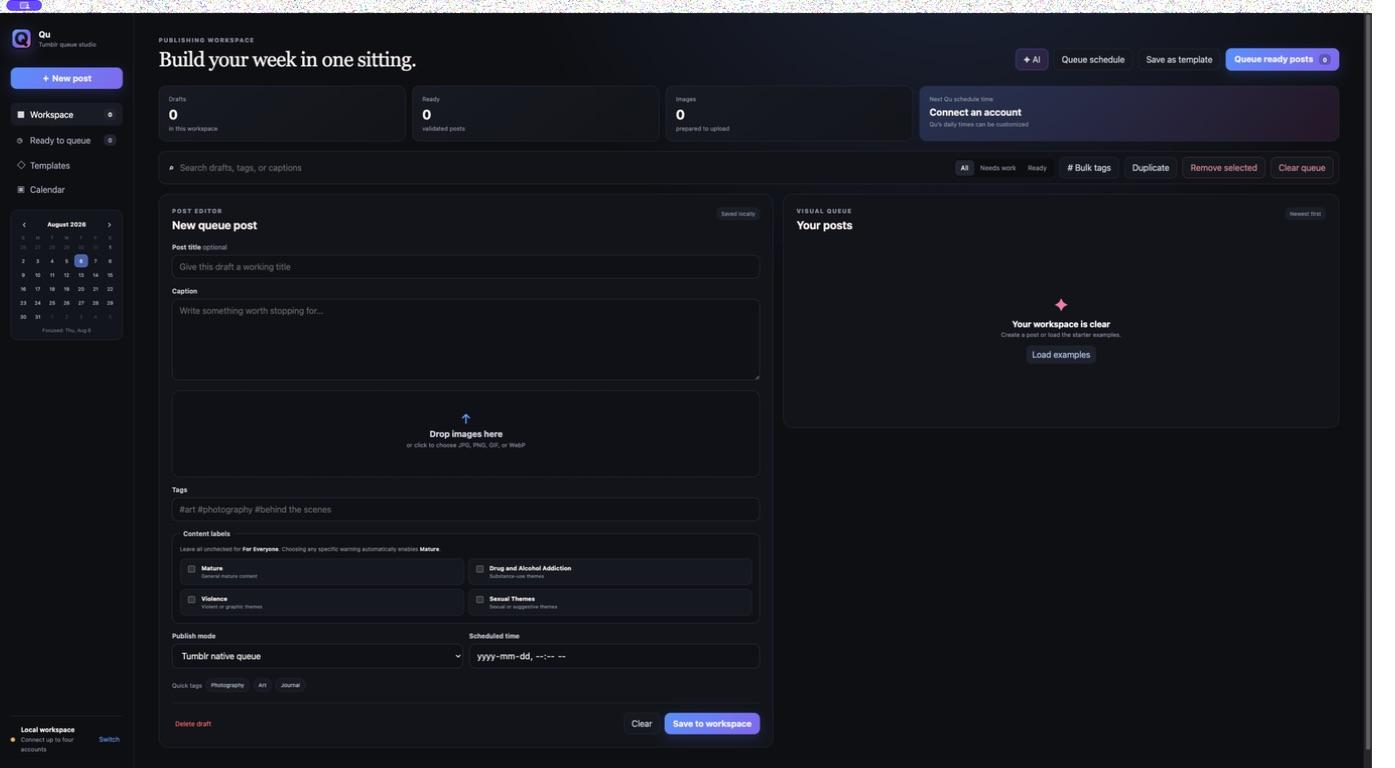
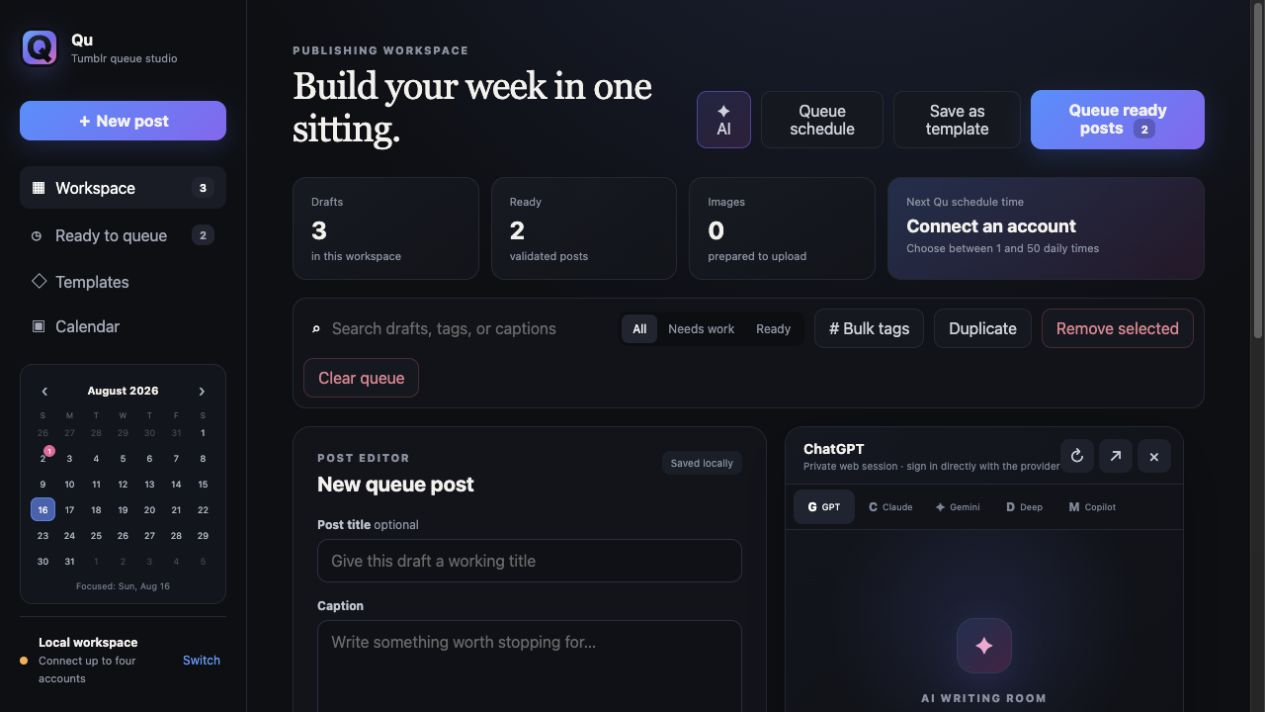
Release Qu 0.8.7 (#11)

diff --git a/app/renderer.js b/app/renderer.js
@@ -3,16 +3,12 @@ const $ = (selector) => document.querySelector(selector);
 const today = new Date();
 const state = { posts: JSON.parse(localStorage.getItem("tqs-posts") || "[]"), activeId: null, media: [], filter: "all", view: "workspace", search: "", profiles: [], activeAccountId: "local", queueTimes: ["08:00","11:00","14:00","17:00","20:00","23:00"], calendarMonth: new Date(today.getFullYear(),today.getMonth(),1), selectedDate: "", remoteCalendarPosts: [], calendarSyncedAt: null };
 const fields = { title: $("#post-title"), caption: $("#caption"), tags: $("#tags"), postState: $("#post-state"), schedule: $("#schedule-time") };
-const contentLabelInputs = [...document.querySelectorAll('input[name="content-label"]')];
 
 function persist(){localStorage.setItem("tqs-posts",JSON.stringify(state.posts));$("#save-state").textContent="Saved locally"}
 function toast(message){const el=$("#toast");el.textContent=message;el.classList.add("show");setTimeout(()=>el.classList.remove("show"),2600)}
 function escapeText(text=""){return text.replace(/[<>]/g,"")}
 function parseTags(value=""){return[...new Set(value.split(/[,#\n\r]+/).map(tag=>tag.trim().replace(/^#+/,"")).filter(Boolean))]}
-function syncMatureContentLabel(changedInput=null){const mature=contentLabelInputs.find(input=>input.value==="mature");const specific=contentLabelInputs.filter(input=>input.value!=="mature");if(changedInput?.value==="mature"&&!changedInput.checked){specific.forEach(input=>input.checked=false);return}if(specific.some(input=>input.checked))mature.checked=true}
-function selectedContentLabels(){syncMatureContentLabel();return contentLabelInputs.filter(input=>input.checked).map(input=>input.value)}
-function setContentLabels(post){const saved=post.contentLabels||(post.rating==="mature"?["mature"]:[]);contentLabelInputs.forEach(input=>input.checked=saved.includes(input.value));syncMatureContentLabel()}
-function currentPayload(){return{id:state.activeId||crypto.randomUUID(),accountId:state.activeAccountId,title:fields.title.value.trim(),caption:fields.caption.value.trim(),tags:parseTags(fields.tags.value),contentLabels:selectedContentLabels(),state:fields.postState.value,schedule:fields.schedule.value,media:[...state.media],updatedAt:Date.now()}}
+function currentPayload(){return{id:state.activeId||crypto.randomUUID(),accountId:state.activeAccountId,title:fields.title.value.trim(),caption:fields.caption.value.trim(),tags:parseTags(fields.tags.value),state:fields.postState.value,schedule:fields.schedule.value,media:[...state.media],updatedAt:Date.now()}}
 function valid(post){return Boolean(post.caption||post.media.length)}
 function readyToSend(post){return valid(post)&&!post.sentAt}
 function belongsToActiveAccount(post){return (post.accountId||"local")===state.activeAccountId}
@@ -61,8 +57,8 @@ function render(){
   renderCalendar();
 }
 
-function loadPost(id){const post=state.posts.find(p=>p.id===id);if(!post)return;state.activeId=post.isTemplate?null:id;fields.title.value=post.title;fields.caption.value=post.caption;fields.tags.value=post.tags.join(", ");setContentLabels(post);fields.postState.value=post.state;fields.schedule.value=post.schedule||"";state.media=[...post.media];syncSchedule();renderMedia();render();$("#editor-title").textContent=post.isTemplate?`New post from ${post.title||"template"}`:post.title||"Edit queue post"}
-function clearEditor(){state.activeId=null;Object.values(fields).forEach(el=>el.value="");contentLabelInputs.forEach(input=>input.checked=false);fields.postState.value="queue";state.media=[];renderMedia();syncSchedule();$("#editor-title").textContent="New queue post";render()}
+function loadPost(id){const post=state.posts.find(p=>p.id===id);if(!post)return;state.activeId=post.isTemplate?null:id;fields.title.value=post.title;fields.caption.value=post.caption;fields.tags.value=post.tags.join(", ");fields.postState.value=post.state;fields.schedule.value=post.schedule||"";state.media=[...post.media];syncSchedule();renderMedia();render();$("#editor-title").textContent=post.isTemplate?`New post from ${post.title||"template"}`:post.title||"Edit queue post"}
+function clearEditor(){state.activeId=null;Object.values(fields).forEach(el=>el.value="");fields.postState.value="queue";state.media=[];renderMedia();syncSchedule();$("#editor-title").textContent="New queue post";render()}
 function syncActiveEditor(){if(!state.activeId)return null;const post=currentPayload();const index=state.posts.findIndex(p=>p.id===post.id);if(index<0)return null;state.posts[index]=post;persist();return post}
 function savePost(){const post=currentPayload();const index=state.posts.findIndex(p=>p.id===post.id);if(index>=0)state.posts[index]=post;else state.posts.unshift(post);state.activeId=post.id;persist();render();toast(valid(post)?"Post saved and ready":"Draft saved — add content before queueing")}
 function renderMedia(){const grid=$("#media-grid");grid.replaceChildren();$("#media-empty").hidden=state.media.length>0;state.media.forEach((item,index)=>{const card=document.createElement("div");card.className="media-card";const img=document.createElement("img");img.src=item.data;const remove=document.createElement("button");remove.textContent="×";remove.addEventListener("click",e=>{e.stopPropagation();state.media.splice(index,1);renderMedia()});card.append(img,remove);grid.append(card)})}
@@ -71,7 +67,6 @@ function syncSchedule(){fields.schedule.disabled=fields.postState.value!=="sched
 function selectedIds(){return[...document.querySelectorAll("[data-select]:checked")].map(el=>el.dataset.select)}
 
 $("#save-post").addEventListener("click",savePost);$("#new-post").addEventListener("click",clearEditor);$("#clear-editor").addEventListener("click",clearEditor);
-contentLabelInputs.forEach(input=>input.addEventListener("change",()=>{syncMatureContentLabel(input);syncActiveEditor()}));
 $("#delete-post").addEventListener("click",()=>{if(!state.activeId)return clearEditor();state.posts=state.posts.filter(p=>p.id!==state.activeId);persist();clearEditor();toast("Draft deleted")});
 $("#post-state").addEventListener("change",syncSchedule);$("#search").addEventListener("input",e=>{state.search=e.target.value;render()});
 document.querySelectorAll("[data-filter]").forEach(btn=>btn.addEventListener("click",()=>{document.querySelectorAll("[data-filter]").forEach(x=>x.classList.remove("active"));btn.classList.add("active");state.filter=btn.dataset.filter;render()}));
@@ -83,7 +78,7 @@ $("#duplicate-selected").addEventListener("click",()=>{const ids=selectedIds();i
 $("#remove-selected").addEventListener("click",()=>{const ids=selectedIds();if(!ids.length)return toast("Select posts to remove");const count=ids.length;if(!confirm(`Remove ${count} selected post${count===1?"":"s"} from Qu?\n\nThis only removes Qu’s local copies. Nothing will be deleted from Tumblr.`))return;state.posts=state.posts.filter(post=>!ids.includes(post.id));persist();if(ids.includes(state.activeId))clearEditor();else render();toast(`${count} post${count===1?"":"s"} removed from Qu — Tumblr was not changed`)});
 $("#clear-queue").addEventListener("click",()=>{const removable=state.posts.filter(post=>belongsToActiveAccount(post)&&!post.isTemplate);const count=removable.length;if(!count)return toast("This account’s Visual Queue is already empty");if(!confirm(`Clear all ${count} post${count===1?"":"s"} from this account’s Visual Queue?\n\nTemplates will be kept. Nothing will be deleted from Tumblr.`))return;const ids=new Set(removable.map(post=>post.id));state.posts=state.posts.filter(post=>!ids.has(post.id));persist();if(ids.has(state.activeId))clearEditor();else render();toast(`Visual Queue cleared — ${count} local post${count===1?"":"s"} removed`)});
 $("#bulk-tags").addEventListener("click",()=>{const ids=selectedIds();if(!ids.length)return toast("Select posts first");const tags=prompt("Tags to add (separate with commas, line breaks, or # symbols):");if(!tags)return;const additions=parseTags(tags);state.posts.forEach(p=>{if(ids.includes(p.id))p.tags=[...new Set([...p.tags,...additions])]});persist();render();toast("Tags applied")});
-$("#queue-all").addEventListener("click",async()=>{syncActiveEditor();const ready=state.posts.filter(post=>belongsToActiveAccount(post)&&readyToSend(post));if(!ready.length)return toast("No unsent posts are ready");const profile=state.profiles.find(item=>item.id===state.activeAccountId);if(!profile?.verified)return toast("Verify this Tumblr account before posting");if(!confirm(`Send ${ready.length} prepared post${ready.length===1?"":"s"} to ${profile.name}?\n\nQu will use each post’s selected publish mode.`))return;$("#queue-all").disabled=true;toast(`Sending ${ready.length} posts to ${profile.name}…`);const response=await window.queueStudio.publishPosts(profile.id,ready);$("#queue-all").disabled=false;if(!response.ok)return toast(response.message);let successes=0,failures=0,labelWarnings=0;response.results.forEach(result=>{const post=state.posts.find(item=>item.id===result.id);if(!post)return;if(result.ok){post.sentAt=Date.now();post.tumblrId=result.tumblrId;post.lastError=result.labelsConfirmed===false?"Tumblr posted this item but did not confirm its requested content labels.":null;if(result.labelsConfirmed===false)labelWarnings+=1;successes+=1}else{post.lastError=result.message;failures+=1}});persist();render();toast(`${successes} sent · ${failures} failed${labelWarnings?` · ${labelWarnings} label warning${labelWarnings===1?"":"s"}`:failures?" — failed posts remain ready":""}`)});
+$("#queue-all").addEventListener("click",async()=>{syncActiveEditor();const ready=state.posts.filter(post=>belongsToActiveAccount(post)&&readyToSend(post));if(!ready.length)return toast("No unsent posts are ready");const profile=state.profiles.find(item=>item.id===state.activeAccountId);if(!profile?.verified)return toast("Verify this Tumblr account before posting");if(!confirm(`Send ${ready.length} prepared post${ready.length===1?"":"s"} to ${profile.name}?\n\nQu will use each post’s selected publish mode.`))return;$("#queue-all").disabled=true;toast(`Sending ${ready.length} posts to ${profile.name}…`);const response=await window.queueStudio.publishPosts(profile.id,ready);$("#queue-all").disabled=false;if(!response.ok)return toast(response.message);let successes=0,failures=0;response.results.forEach(result=>{const post=state.posts.find(item=>item.id===result.id);if(!post)return;if(result.ok){post.sentAt=Date.now();post.tumblrId=result.tumblrId;post.lastError=null;successes+=1}else{post.lastError=result.message;failures+=1}});persist();render();toast(`${successes} sent · ${failures} failed${failures?" — failed posts remain ready":""}`)});
 $("#save-template").addEventListener("click",()=>{const template=currentPayload();if(!valid(template))return toast("Add a caption or image before saving a template");template.id=crypto.randomUUID();template.isTemplate=true;template.sentAt=null;template.tumblrId=null;template.title=template.title||"Untitled template";state.posts.unshift(template);persist();render();toast("Template saved locally")});
 function setAuthorizationStatus(message,type=""){const status=$("#authorization-status");status.textContent=message;status.className=`authorization-status ${type}`.trim()}
 let authorizationPollTimer=null;
@@ -123,7 +118,7 @@ $("#queue-posts-per-day").addEventListener("input",event=>{const count=Math.max(
 $("#evenly-space-times").addEventListener("click",()=>{const count=Math.max(1,Math.min(50,Number($("#queue-posts-per-day").value)||6));renderQueueTimeInputs(evenlySpacedTimes(count));toast(`${count} daily time${count===1?"":"s"} spaced evenly`) });
 $("#open-tumblr-queue-settings").addEventListener("click",()=>{const profile=state.profiles.find(item=>item.id===state.activeAccountId);if(!profile)return toast("Select a Tumblr account first");const blog=profile.blog.toLowerCase().replace(/^https?:\/\//,"").replace(/\.tumblr\.com.*$/,"").replace(/^www\.tumblr\.com\/(?:blog\/)?/,"").split("/")[0];window.queueStudio.openExternal(`https://www.tumblr.com/blog/${encodeURIComponent(blog)}/queue`)});
 $("#save-queue-times").addEventListener("click",async()=>{const times=[...document.querySelectorAll(".queue-time")].map(input=>input.value);if(!times.length||times.some(value=>!value))return toast("Choose every Qu posting time");if(times.length>50)return toast("Tumblr supports at most 50 queued posts per day");if(new Set(times).size!==times.length)return toast("Each Qu posting time must be different");const result=await window.queueStudio.saveQueueTimes(state.activeAccountId,times);if(!result.ok)return toast(result.message);state.queueTimes=result.times;$("#schedule-dialog").close();await refreshQueueStatus();toast(`${result.times.length} daily Qu time${result.times.length===1?"":"s"} saved`)});
-$("#load-demo").addEventListener("click",()=>{const examples=[{id:crypto.randomUUID(),accountId:state.activeAccountId,title:"Studio notes",caption:"A quiet look behind the scenes from this week’s work.",tags:["behind the scenes","artists on tumblr"],contentLabels:[],state:"queue",schedule:"",media:[],updatedAt:Date.now()},{id:crypto.randomUUID(),accountId:state.activeAccountId,title:"Sunday photo set",caption:"Soft light, slow morning.",tags:["photography","original photography"],contentLabels:[],state:"scheduled",schedule:"2026-08-02T10:00",media:[],updatedAt:Date.now()}];state.posts=state.posts.filter(post=>!belongsToActiveAccount(post));state.posts.push(...examples);persist();render();toast("Example workspace loaded")});
+$("#load-demo").addEventListener("click",()=>{const examples=[{id:crypto.randomUUID(),accountId:state.activeAccountId,title:"Studio notes",caption:"A quiet look behind the scenes from this week’s work.",tags:["behind the scenes","artists on tumblr"],state:"queue",schedule:"",media:[],updatedAt:Date.now()},{id:crypto.randomUUID(),accountId:state.activeAccountId,title:"Sunday photo set",caption:"Soft light, slow morning.",tags:["photography","original photography"],state:"scheduled",schedule:"2026-08-02T10:00",media:[],updatedAt:Date.now()}];state.posts=state.posts.filter(post=>!belongsToActiveAccount(post));state.posts.push(...examples);persist();render();toast("Example workspace loaded")});
 async function restoreConnectionStatus(){if(!window.queueStudio?.connectionStatus)return;const [status,browsers]=await Promise.all([window.queueStudio.connectionStatus(),window.queueStudio.availableBrowsers()]);state.profiles=status.profiles||[];state.activeAccountId=status.activeId||"local";for(const option of $("#authorization-browser").options){if(option.value!=="default"&&!browsers[option.value]){option.disabled=true;option.textContent+= " — not found"}}renderAccounts();updateActiveAccount()}
 render();renderMedia();renderQueueTimeInputs();syncSchedule();restoreConnectionStatus();
 

diff --git a/app/main.js b/app/main.js
@@ -4,7 +4,6 @@ const fs = require("fs");
 const path = require("path");
 const crypto = require("crypto");
 const { spawn } = require("child_process");
-const { tumblrCommunityLabelPayload, tumblrPostHasContentLabels } = require("./tumblr-labels");
 const { isTumblrAuthorizationUrl, extractTumblrCallbackParameters } = require("./tumblr-auth");
 const authorizationSessions = new Map();
 const OAUTH_SERVICE_URL = "https://qu-tumblr-auth.nullgurl.workers.dev";
@@ -136,7 +135,7 @@ async function refreshOAuth2Profile(profile) {
   if (!profile.refreshToken) throw new Error("Reconnect this Tumblr account to renew access.");
   const response = await fetchWithTimeout(`${OAUTH_SERVICE_URL}/v2/oauth/refresh`, {
     method: "POST",
-    headers: { "content-type": "application/json", "User-Agent": "Qu/0.8.6" },
+    headers: { "content-type": "application/json", "User-Agent": "Qu/0.8.7" },
     body: JSON.stringify({ refreshToken: decrypt(profile.refreshToken) })
   });
   const values = await response.json();
@@ -161,7 +160,7 @@ async function tumblrRequest(profile, method, url, options = {}) {
       method,
       headers: {
         Authorization: `Bearer ${decrypt(profile.accessToken)}`,
-        "User-Agent": "Qu/0.8.6",
+        "User-Agent": "Qu/0.8.7",
         ...(options.headers || {})
       },
       body: options.body
@@ -189,7 +188,7 @@ async function tumblrRequest(profile, method, url, options = {}) {
     method,
     headers: {
       Authorization: authorization,
-      "User-Agent": "Qu/0.8.6",
+      "User-Agent": "Qu/0.8.7",
       ...(options.headers || {})
     },
     body: options.body
@@ -449,15 +448,9 @@ async function publishPost(profile, post) {
     if (!post.schedule) throw new Error("A scheduled post needs a date and time.");
     payload.publish_on = new Date(post.schedule).toISOString();
   }
-  Object.assign(payload, tumblrCommunityLabelPayload(post.contentLabels));
   const endpoint = `https://api.tumblr.com/v2/blog/${percentEncode(profile.blog)}/posts`;
   const response = await submitNpfPost(profile, "POST", endpoint, payload, uploads);
-  const postId = response?.response?.id || response?.response?.id_string || null;
-  let labelsConfirmed = !(post.contentLabels || []).length;
-  if (postId && (post.contentLabels || []).length) {
-    labelsConfirmed = await ensurePostContentLabels(profile, postId, payload, uploads, post.contentLabels);
-  }
-  return { response, labelsConfirmed };
+  return response;
 }
 
 async function submitNpfPost(profile, method, endpoint, payload, uploads) {
@@ -475,42 +468,6 @@ async function submitNpfPost(profile, method, endpoint, payload, uploads) {
     },
     body: multipart.body
   });
-}
-
-async function fetchTumblrPost(profile, postId) {
-  const endpoint = `https://api.tumblr.com/v2/blog/${percentEncode(profile.blog)}/posts/${percentEncode(postId)}?post_format=npf`;
-  const data = await tumblrRequest(profile, "GET", endpoint);
-  return data?.response?.posts?.[0] || data?.response || null;
-}
-
-async function fetchTumblrPostWithRetry(profile, postId, attempts = 3) {
-  let lastError;
-  for (let attempt = 0; attempt < attempts; attempt += 1) {
-    try {
-      const post = await fetchTumblrPost(profile, postId);
-      if (post) return post;
-    } catch (error) {
-      lastError = error;
-    }
-    if (attempt < attempts - 1) {
-      await new Promise((resolve) => setTimeout(resolve, 500 * (attempt + 1)));
-    }
-  }
-  if (lastError) throw lastError;
-  return null;
-}
-
-async function ensurePostContentLabels(profile, postId, payload, uploads, labels) {
-  try {
-    let remotePost = await fetchTumblrPostWithRetry(profile, postId);
-    if (tumblrPostHasContentLabels(remotePost, labels)) return true;
-    const endpoint = `https://api.tumblr.com/v2/blog/${percentEncode(profile.blog)}/posts/${percentEncode(postId)}`;
-    await submitNpfPost(profile, "PUT", endpoint, payload, uploads);
-    remotePost = await fetchTumblrPostWithRetry(profile, postId);
-    return tumblrPostHasContentLabels(remotePost, labels);
-  } catch {
-    return false;
-  }
 }
 
 function settingsPath() {
@@ -822,7 +779,7 @@ ipcMain.handle("begin-authorization", async (_event, id) => {
     if (!profile) return { ok: false, message: "Save this account profile first." };
     const response = await fetchWithTimeout(`${OAUTH_SERVICE_URL}/v2/oauth/start`, {
       method: "POST",
-      headers: { "User-Agent": "Qu/0.8.6", "Cache-Control": "no-cache" }
+      headers: { "User-Agent": "Qu/0.8.7", "Cache-Control": "no-cache" }
     });
     const values = await response.json();
     if (!response.ok || !values.authorizeUrl || !values.sessionId || !values.sessionKey) {
@@ -847,7 +804,7 @@ ipcMain.handle("complete-authorization", async (_event, id) => {
     }
     const response = await fetchWithTimeout(
       `${OAUTH_SERVICE_URL}/v1/oauth/session/${pending.sessionId}`,
-      { headers: { Authorization: `Bearer ${pending.sessionKey}`, "User-Agent": "Qu/0.8.6" } }
+      { headers: { Authorization: `Bearer ${pending.sessionKey}`, "User-Agent": "Qu/0.8.7" } }
     );
     const values = await response.json();
     if (response.ok && values.status === "pending") return { ok: true, pending: true };
@@ -884,7 +841,7 @@ ipcMain.handle("complete-pasted-callback", async (_event, callbackUrl) => {
     endpoint.searchParams.set("oauth_token", values.oauthToken);
     endpoint.searchParams.set("oauth_verifier", values.oauthVerifier);
     const response = await fetchWithTimeout(endpoint.toString(), {
-      headers: { "User-Agent": "Qu/0.8.6", "Cache-Control": "no-cache" }
+      headers: { "User-Agent": "Qu/0.8.7", "Cache-Control": "no-cache" }
     });
     if (!response.ok) {
       const body = await response.text();
@@ -987,8 +944,7 @@ ipcMain.handle("publish-posts", async (_event, id, posts) => {
       results.push({
         id: post.id,
         ok: true,
-        tumblrId: published.response?.response?.id || published.response?.response?.id_string || null,
-        labelsConfirmed: published.labelsConfirmed
+        tumblrId: published?.response?.id || published?.response?.id_string || null
       });
     } catch (error) {
       results.push({ id: post.id, ok: false, message: error.message });

diff --git a/app/index.html b/app/index.html
@@ -5,7 +5,6 @@
   <meta name="viewport" content="width=device-width, initial-scale=1">
   <title>Qu</title>
   <link rel="stylesheet" href="styles.css">
-  <link rel="stylesheet" href="content-labels.css">
   <link rel="stylesheet" href="account-manager.css">
 </head>
 <body>
@@ -83,17 +82,6 @@
           </div>
 
           <label class="field"><span>Tags</span><input id="tags" placeholder="#art #photography #behind the scenes"></label>
-
-          <fieldset class="content-labels">
-            <legend>Content labels</legend>
-            <p id="content-label-help">Leave all unchecked for <strong>For Everyone</strong>. Choosing any specific warning automatically enables <strong>Mature</strong>.</p>
-            <div class="content-label-grid" aria-describedby="content-label-help">
-              <label><input type="checkbox" name="content-label" value="mature"><span><b>Mature</b><small>General mature content</small></span></label>
-              <label><input type="checkbox" name="content-label" value="drug-and-alcohol-addiction"><span><b>Drug and Alcohol Addiction</b><small>Substance-use themes</small></span></label>
-              <label><input type="checkbox" name="content-label" value="violence"><span><b>Violence</b><small>Violent or graphic themes</small></span></label>
-              <label><input type="checkbox" name="content-label" value="sexual-themes"><span><b>Sexual Themes</b><small>Sexual or suggestive themes</small></span></label>
-            </div>
-          </fieldset>
 
           <div class="two-columns">
             <label class="field"><span>Publish mode</span><select id="post-state"><option value="queue">Tumblr native queue</option><option value="qu-schedule">Qu daily schedule</option><option value="scheduled">Choose an exact time</option><option value="draft">Save as Tumblr draft</option><option value="published">Publish now</option></select></label>

diff --git a/app/test/renderer-label-sync.test.js b/app/test/renderer-label-sync.test.js
@@ -5,9 +5,11 @@ const fs = require("node:fs");
 const path = require("node:path");
 
 const renderer = fs.readFileSync(path.join(__dirname, "..", "renderer.js"), "utf8");
+const index = fs.readFileSync(path.join(__dirname, "..", "index.html"), "utf8");
 
-test("changing a content label immediately synchronizes an existing saved post", () => {
-  assert.match(renderer, /addEventListener\("change",\(\)=>\{syncMatureContentLabel\(input\);syncActiveEditor\(\)\}\)/);
+test("Qu no longer presents unsupported Tumblr content-label controls", () => {
+  assert.doesNotMatch(index, /name="content-label"/);
+  assert.doesNotMatch(renderer, /contentLabel|MatureContentLabel|labelsConfirmed/);
 });
 
 test("queueing synchronizes the open editor before selecting ready posts", () => {

diff --git a/README.md b/README.md
@@ -2,34 +2,33 @@
 
 Qu is a visual desktop publishing workspace for preparing, organizing, scheduling, and posting multiple Tumblr posts efficiently.
 
-**Current version: 0.8.6**
+**Current version: 0.8.7**
 
 | Platform | Download |
 | --- | --- |
-| Windows 64-bit | [Qu 0.8.6 installer](https://github.com/NullGurll/Qu/releases/download/v0.8.6/Qu-Setup-0.8.6-x64.exe) |
-| macOS Intel and Apple Silicon | [Qu 0.8.6 universal installer](https://github.com/NullGurll/Qu/releases/download/v0.8.6/Qu-Setup-0.8.6-universal.dmg) |
+| Windows 64-bit | [Qu 0.8.7 installer](https://github.com/NullGurll/Qu/releases/download/v0.8.7/Qu-Setup-0.8.7-x64.exe) |
+| macOS Intel and Apple Silicon | [Qu 0.8.7 universal installer](https://github.com/NullGurll/Qu/releases/download/v0.8.7/Qu-Setup-0.8.7-universal.dmg) |
 
-[Release notes and checksums](https://github.com/NullGurll/Qu/releases/tag/v0.8.6)
+[Release notes and checksums](https://github.com/NullGurll/Qu/releases/tag/v0.8.7)
 
 ![Qu visual posting workspace](docs/images/qu-workspace.png)
 
 ## Highlights
 
 - Prepare text and image posts from one organized workspace
-- Add captions, images, separately parsed tags, Tumblr content labels, and publishing modes
+- Add captions, images, separately parsed tags, and publishing modes
 - Publish immediately, schedule a specific time, use Qu's posting times, or add to Tumblr's native queue
 - Manage as many as four Tumblr accounts and switch between their separate workspaces
 - Synchronize the active account's Tumblr queue and calendar
 - Create templates, duplicate posts, apply bulk tags, and remove one or many drafts
 - Open ChatGPT, Claude, Gemini, or DeepSeek beside the editor
 - Connect accounts through automatic Tumblr OAuth 2 authorization
-- Preserve Tumblr's Mature, Drug & Alcohol Addiction, Violence, and Sexual Themes labels when posting
 
-## What changed in 0.8.6
+## What changed in 0.8.7
 
-- Adds an in-app fallback for Tumblr applications that redirect to a 404 blog callback.
-- Paste the complete callback URL into Qu and finish authorization without leaving the account dialog.
-- Makes repeated authorization status checks safe while the temporary session remains active.
+- Removes the mature-content controls that Tumblr's public posting API does not reliably preserve.
+- Leaves content classification to Tumblr's own automated moderation system.
+- Simplifies the post editor and refreshes the repository screenshot to match the current interface.
 
 ## Account connection
 

diff --git a/app/README.md b/app/README.md
@@ -6,7 +6,7 @@ Qu is an Electron desktop workspace for preparing, organizing, and publishing Tu
 
 - Create, edit, duplicate, search, filter, and bulk-remove posts
 - Add multiple images by selecting files or dragging them into the editor
-- Set captions, separate tags, Tumblr content labels, and publishing modes
+- Set captions, separate tags, and publishing modes
 - Use Tumblr's native queue, Qu's posting times, a custom schedule, or immediate publishing
 - Connect and switch between as many as four Tumblr accounts
 - Synchronize Tumblr queue entries with Qu's calendar
